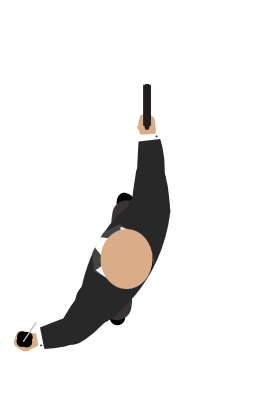
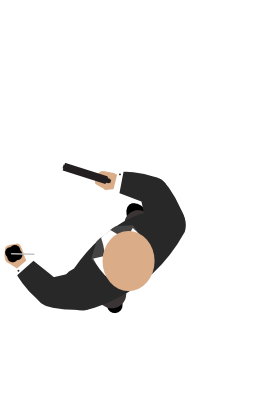
Updated Sprite / Shoot Frame

Changed region(s): [[0.0, 0.21, 0.75, 0.9], [0.5625, 0.6, 0.5938, 0.63], [0.4062, 0.69, 0.4375, 0.72]]

diff --git a/character-animator/index.html b/character-animator/index.html
@@ -23,10 +23,10 @@ function rotatePlayer() {
 }
 
 function swingSword() {
-	TweenMax.fromTo(player, .25, {backgroundPosition:"0 0"}, {backgroundPosition:"-1024px 0", ease:SteppedEase.config(4), onComplete:resetPosition});
+	TweenMax.fromTo(player, .25, {backgroundPosition:"0 0"}, {backgroundPosition:"0 -1600px", ease:SteppedEase.config(4), onComplete:resetPosition});
 }
 function shootGun() {
-	TweenMax.fromTo(player, .25, {backgroundPosition:"-1280px 0"}, {backgroundPosition:"-1792px 0", ease:SteppedEase.config(2)});
+	TweenMax.fromTo(player, .25, {backgroundPosition:"-256px 0"}, {backgroundPosition:"-256px -1200px", ease:SteppedEase.config(3)});
 }
 
 function resetPosition() {
